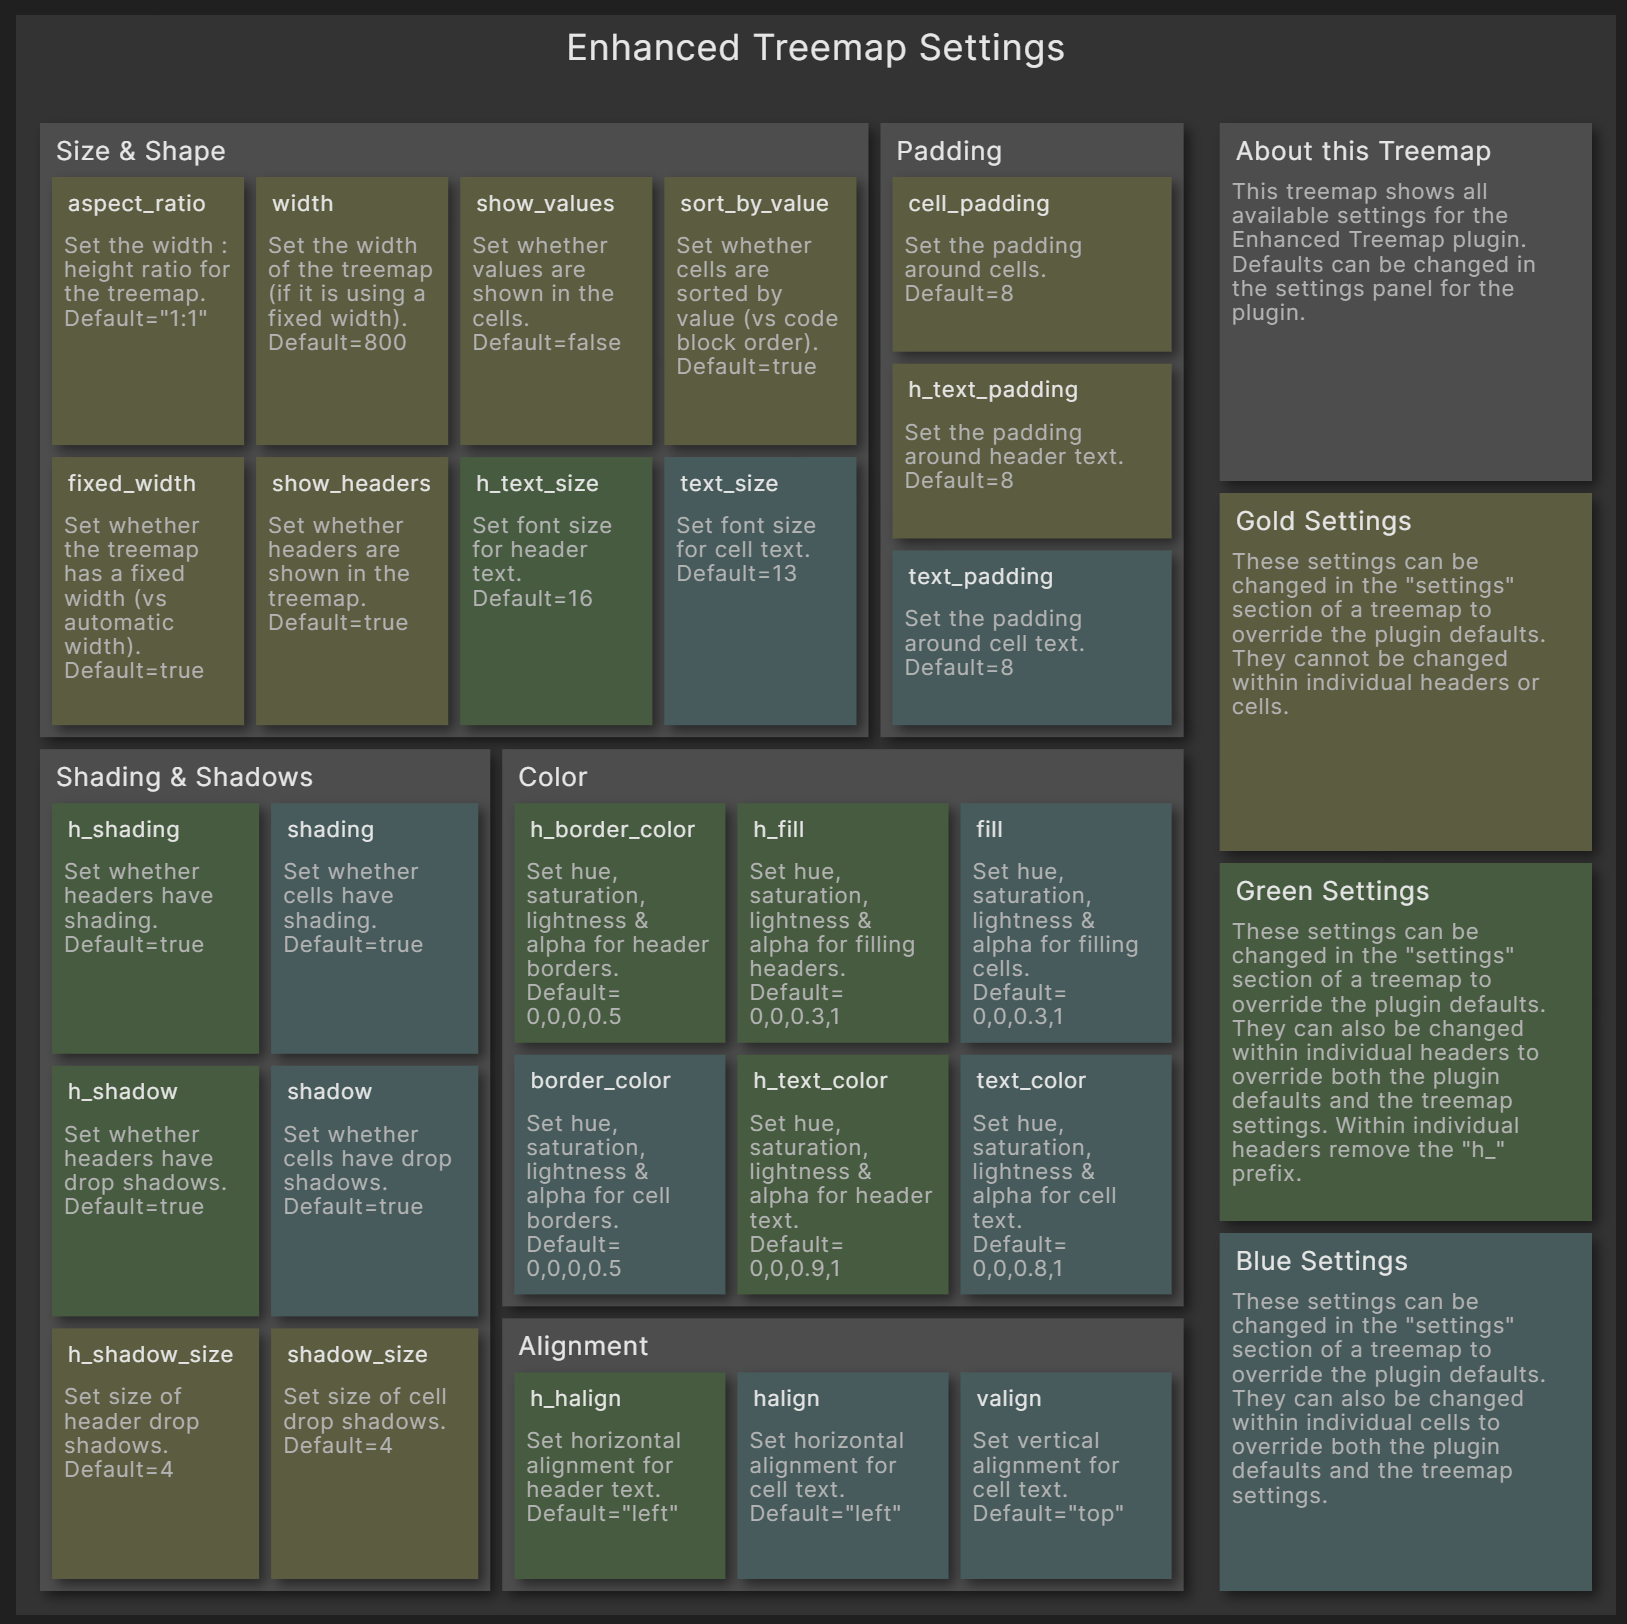
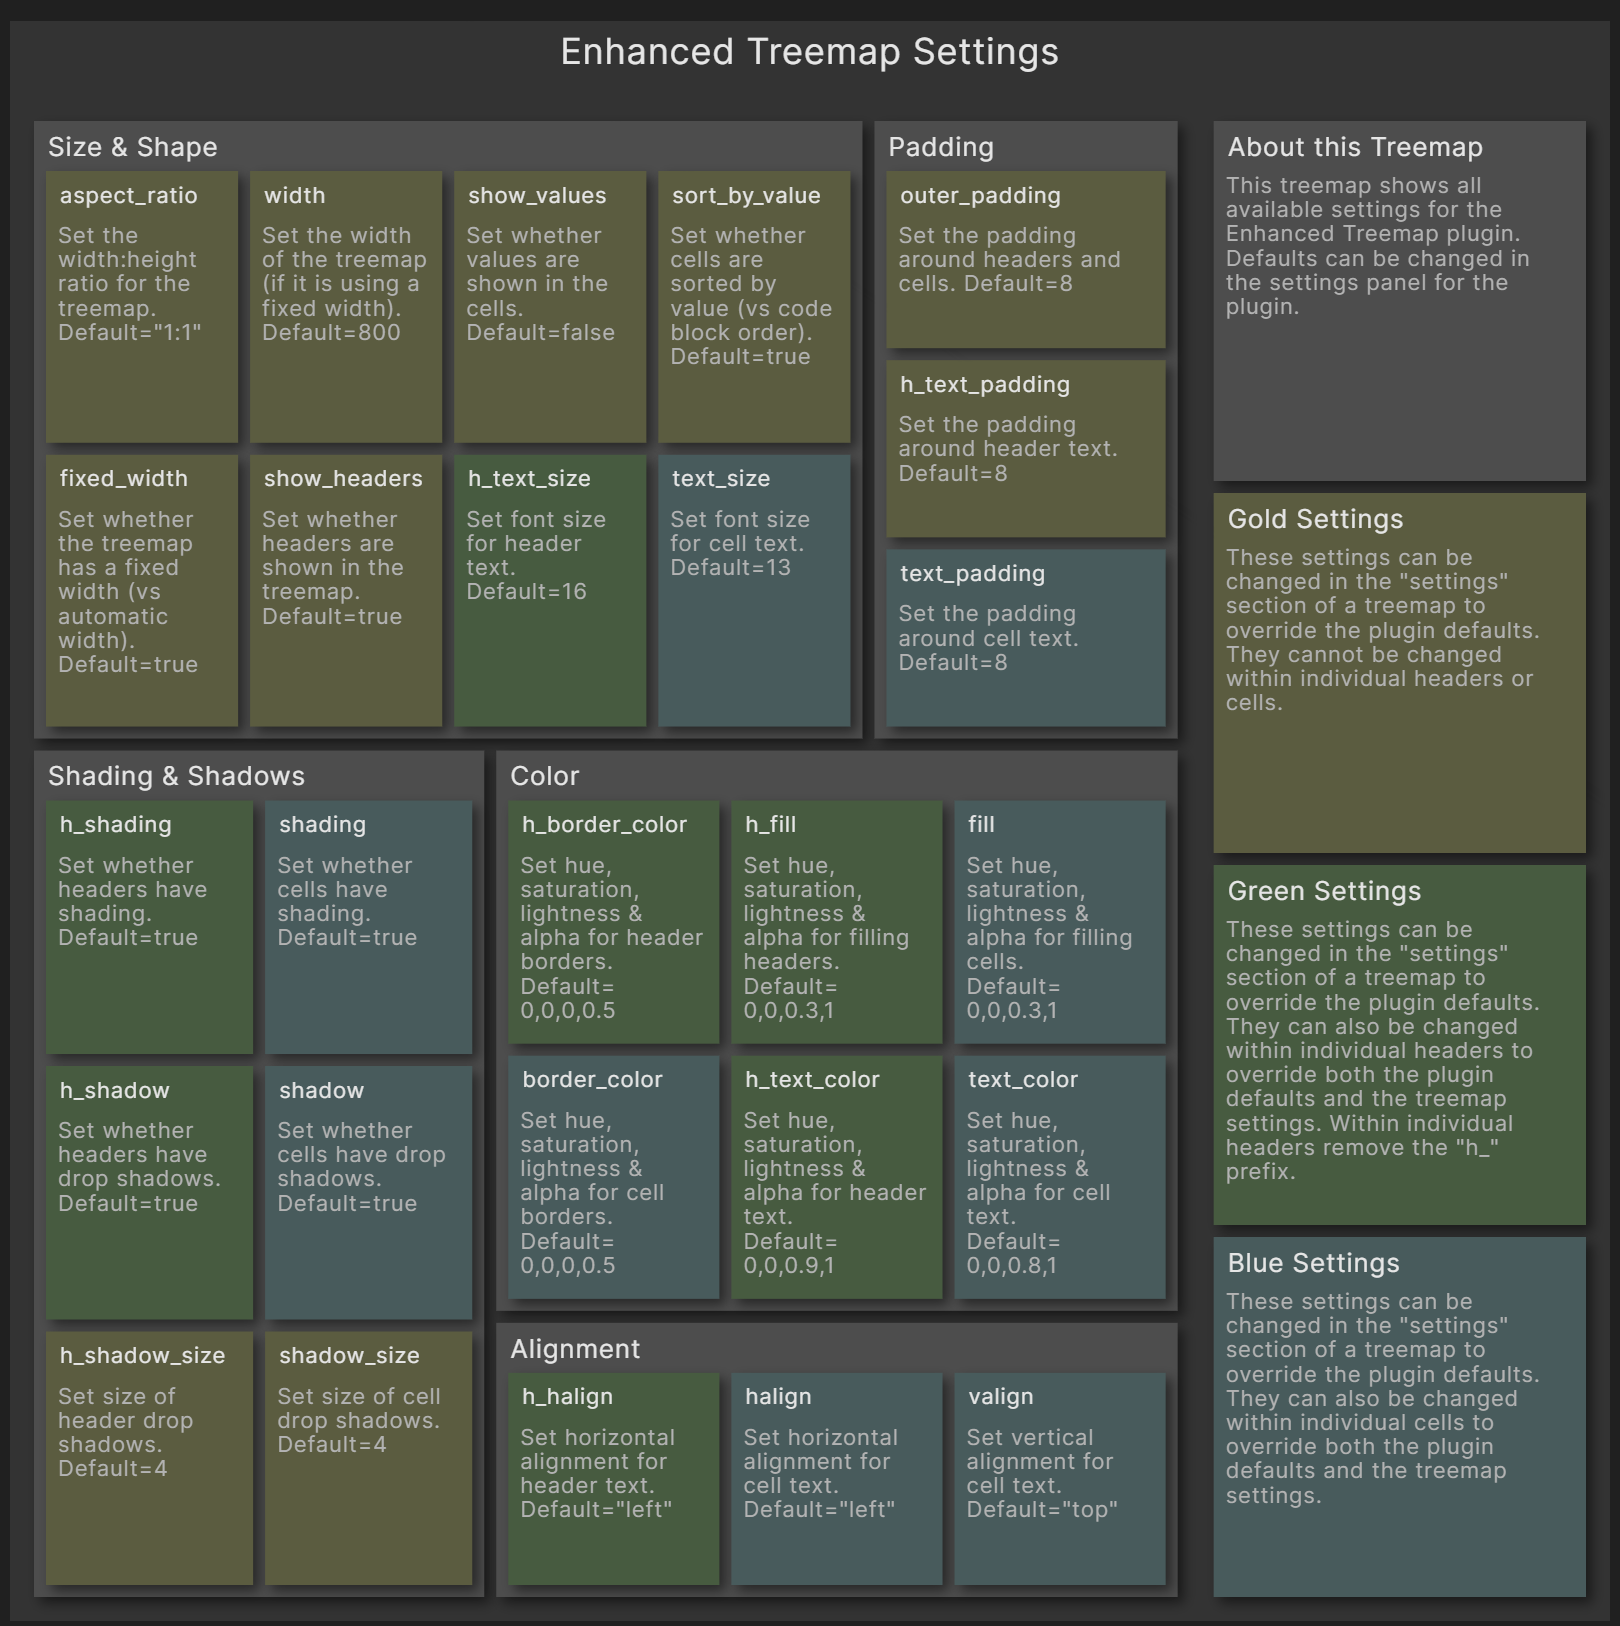
Changed cell_padding to outer_padding

diff --git a/src/enhancedtreemap.ts b/src/enhancedtreemap.ts
@@ -39,7 +39,7 @@ class EnhancedTreemapRenderChild extends MarkdownRenderChild {
     aspect_ratio:         float;
     aspect_w:             float;
     aspect_h:             float;
-    cell_padding:         float;
+    outer_padding:        float;
     fixed_width:          bool;
     h_shadow_size:        float;
     h_text_padding:       float;
@@ -83,7 +83,7 @@ class EnhancedTreemapRenderChild extends MarkdownRenderChild {
         this.aspect_ratio         = settings.aspect_ratio;
         this.aspect_w             = settings.aspect_w;
         this.aspect_h             = settings.aspect_h;
-        this.cell_padding         = settings.cell_padding;
+        this.outer_padding        = settings.outer_padding;
         this.fixed_width          = settings.fixed_width;
         this.h_shadow_size        = settings.h_shadow_size;
         this.h_text_padding       = settings.h_text_padding;
@@ -169,8 +169,8 @@ class EnhancedTreemapRenderChild extends MarkdownRenderChild {
                     this.aspect_w = ratio[0];
                     this.aspect_h = ratio[1];
                 }
-                if (setting.cell_padding != null) 
-                    this.cell_padding = this.verifyOption(setting.cell_padding, "cell_padding", "float", 0, null, null);
+                if (setting.outer_padding != null) 
+                    this.outer_padding = this.verifyOption(setting.outer_padding, "outer_padding", "float", 0, null, null);
                 if (setting.fixed_width != null) 
                     this.fixed_width = setting.fixed_width;
                 if (setting.h_shadow_size != null) 
@@ -381,19 +381,19 @@ class EnhancedTreemapRenderChild extends MarkdownRenderChild {
 
         var svg = d3.select(this.svg).append("g");
 
-        var cell_padding = this.cell_padding * scale;
-        var text_padding = this.text_padding * scale;
+        var outer_padding  = this.outer_padding * scale;
+        var text_padding   = this.text_padding * scale;
         var h_text_padding = this.h_text_padding * scale;
-        var text_size = this.text_size * scale;
-        var h_text_size = this.h_text_size * scale;
+        var text_size      = this.text_size * scale;
+        var h_text_size    = this.h_text_size * scale;
 
         // add positions to the nodes using the treemap layout
         var treemapLayout = d3.treemap()
             .tile(d3.treemapSquarify.ratio(1))
             .size([width, height])
-            .paddingOuter(cell_padding)
-            .paddingTop(this.show_headers ? h_text_size + 2 * h_text_padding : cell_padding)
-            .paddingInner(cell_padding)
+            .paddingOuter(outer_padding)
+            .paddingTop(this.show_headers ? h_text_size + 2 * h_text_padding : outer_padding)
+            .paddingInner(outer_padding)
             (nodes);
 
         // decendants instead of leaves shows all nodes, not just the leaves

diff --git a/src/settings.ts b/src/settings.ts
@@ -6,7 +6,7 @@ export interface EnhancedTreemapSettings {
 
     // Treemap Settings
     aspect_ratio:   float;
-    cell_padding:   float;
+    outer_padding:  float;
     fixed_width:    bool;
     h_shadow_size:  float;
     h_text_padding: float;
@@ -45,7 +45,7 @@ export const DEFAULT_SETTINGS: EnhancedTreemapSettings = {
 
     // Treemap Settings
     aspect_ratio:   1,
-    cell_padding:   8,
+    outer_padding:  8,
     fixed_width:    true,
     h_shadow_size:  4,
     h_text_padding: 8,
@@ -372,10 +372,10 @@ export class SettingTab extends PluginSettingTab {
             .setName('Cell Padding')
             .setDesc('Default Padding Size Around Cells')
             .addText(text => text
-                .setValue(this.plugin.settings.cell_padding.toString())
+                .setValue(this.plugin.settings.outer_padding.toString())
                 .onChange(async (value) => {
                     if (value > 0) {
-                        this.plugin.settings.cell_padding = value;
+                        this.plugin.settings.outer_padding = value;
                         await this.plugin.saveSettings();
                     }
                 }));

diff --git a/examples/Settings.md b/examples/Settings.md
@@ -2,83 +2,109 @@
 
 ```json
 {
-    "type": "enhancedtreemap",
-    "name": "Enhanced Treemap Settings", "fill": { "s": 0, "l": 0.2 }, "text_size": 16, "halign": "center",
-    "settings": [
-        { "aspect_ratio": "1:1" },
-        { "fixed_width": true },
-        { "width": 800 },
-        { "sort_by_value": false },
-        { "cell_padding": 6 },
-        { "text_padding": 6 },
-        { "h_text_padding": 8 },
-        { "text_size": 11 },
-        { "h_text_size": 11 },
-        { "text_color": { "l": 0.7 } },
-        { "shading": false },
-        { "h_shading": false },
-        { "shadow": false },
-        { "h_shadow": true },
-        { "h_shadow_size": 3 },
-        { "border_color": { "a": 0 } },
-        { "h_border_color": { "a": 0 } },
-        { "h_fill": { "s": 0.2 } },
-        { "fill": { "a": 0 } }
-    ],
-    "children": [
-        { "fill": { "a": 0 }, "border_color": { "a": 0 },
-            "children": [
-                { "name": "Size & Shape", "text_size": 13, "fill": { "s": 0 }, "children": [ 
-                    { "name": "aspect_ratio",   "fill": { "h": 60 }, "children": [ { "name": "\"1:1\"" } ] },
-                    { "name": "fixed_width",    "fill": { "h": 60 }, "children": [ { "name": "true" } ] },
-                    { "name": "width",          "fill": { "h": 60 }, "children": [ { "name": "800" } ] },
-                    { "name": "show_headers",   "fill": { "h": 60 }, "children": [ { "name": "true" } ] },
-                    { "name": "show_values",    "fill": { "h": 60 }, "children": [ { "name": "false" } ] },
-                    { "name": "sort_by_value",  "fill": { "h": 60 }, "children": [ { "name": "true" } ] },
-                    { "name": "h_text_size",    "fill": { "h": 120 }, "children": [ { "name": "16" } ] },
-                    { "name": "text_size",      "fill": { "h": 180 }, "children": [ { "name": "13" } ] }
-                ] },
-                { "name": "Padding", "text_size": 13, "fill": { "s": 0 }, "children": [ 
-                    { "name": "cell_padding",   "fill": { "h": 60 }, "children": [ { "name": "8" } ] },
-                    { "name": "h_text_padding", "fill": { "h": 60 }, "children": [ { "name": "8" } ] },
-                    { "name": "text_padding",   "fill": { "h": 180 }, "children": [ { "name": "8" } ] }
-                ] },
-                { "name": "Shading & Shadows", "text_size": 13, "fill": { "s": 0 }, "children": [ 
-                    { "name": "h_shadow_size",  "fill": { "h": 60 }, "children": [ { "name": "4" } ] },
-                    { "name": "shadow_size",    "fill": { "h": 60 }, "children": [ { "name": "4" } ] },
-                    { "name": "h_shading",      "fill": { "h": 120 }, "children": [ { "name": "true" } ] },
-                    { "name": "shading",        "fill": { "h": 180 }, "children": [ { "name": "true" } ] },
-                    { "name": "h_shadow",       "fill": { "h": 120 }, "children": [ { "name": "true" } ] },
-                    { "name": "shadow",         "fill": { "h": 180 }, "children": [ { "name": "true" } ] }
-                ] },
-                { "name": "Color", "text_size": 13, "fill": { "s": 0 }, "children": [ 
-                    { "name": "h_border_color", "fill": { "h": 120 }, "children": [ { "name": "hue:0 saturation:0 lightness:0 alpha:0.5" } ] },
-                    { "name": "border_color",   "fill": { "h": 180 }, "children": [ { "name": "hue:0 saturation:0 lightness:0 alpha:0.5" } ] },
-                    { "name": "h_fill",         "fill": { "h": 120 }, "children": [ { "name": "hue:0 saturation:0 lightness:0.3 alpha:1" } ] },
-                    { "name": "fill",           "fill": { "h": 180 }, "children": [ { "name": "hue:0 saturation:0 lightness:0.3 alpha:1" } ] },
-                    { "name": "h_text_color",   "fill": { "h": 120 }, "children": [ { "name": "hue:0 saturation:0 lightness:0.9 alpha:1" } ] },
-                    { "name": "text_color",     "fill": { "h": 180 }, "children": [ { "name": "hue:0 saturation:0 lightness:0.8 alpha:1" } ] }
-                ] },
-                { "name": "Alignment", "text_size": 13, "fill": { "s": 0 }, "children": [ 
-                    { "name": "h_halign",       "fill": { "h": 120 }, "children": [ { "name": "\"left\"" } ] },
-                    { "name": "halign",         "fill": { "h": 180 }, "children": [ { "name": "\"left\"" } ] },
-                    { "name": "valign",         "fill": { "h": 180 }, "children": [ { "name": "\"top\"" } ] }
-                ] }
-            ]
-        },
-        { "fill": { "a": 0 }, "border_color": { "a": 0 },
-            "children": [
-                { "name": "Defaults",      "text_size": 13, "fill": { "s": 0, "a": 1 }, "children": [ { "value": 2.25,
-                    "name": "This treemap shows the defaults for all available settings for the Enhanced Treemap plugin. These defaults can be changed in the settings panel for the plugin." } ] },
-                { "name": "Gold Shading",  "text_size": 13, "fill": { "h": 60, "s": 0.2, "a": 1 }, "children": [ { "value": 2.25,
-                    "name": "These settings can be changed in the \"settings\" section of a treemap to override the plugin defaults. They cannot be changed within individual headers or cells." } ] },
-                { "name": "Green Shading", "text_size": 13, "fill": { "h": 120 }, "children": [ { "value": 2.25,
-                    "name": "These settings can be changed in the \"settings\" section of a treemap to override the plugin defaults. They can also be changed within individual headers to override both the plugin defaults and the treemap settings. Within individual headers remove the \"h_\" prefix." } ] },
-                { "name": "Blue Shading",  "text_size": 13, "fill": { "h": 180 }, "children": [ { "value": 2.25,
-                    "name": "These settings can be changed in the \"settings\" section of a treemap to override the plugin defaults. They can also be changed within individual cells to override both the plugin defaults and the treemap settings." } ] }
-            ]
-        }
-    ]
+"type": "enhancedtreemap",
+"name": "Enhanced Treemap Settings", "fill": { "s": 0, "l": 0.2 }, "text_size": 18, "halign": "center",
+"settings": [
+	{ "aspect_ratio": "1:1" },
+	{ "fixed_width": true },
+	{ "width": 800 },
+	{ "sort_by_value": false },
+	{ "outer_padding": 6 },
+	{ "text_padding": 0 },
+	{ "h_text_padding": 7 },
+	{ "text_size": 11 },
+	{ "h_text_size": 11 },
+	{ "text_color": { "l": 0.7 } },
+	{ "shading": false },
+	{ "h_shading": false },
+	{ "shadow": false },
+	{ "h_shadow": true },
+	{ "h_shadow_size": 3 },
+	{ "border_color": { "a": 0 } },
+	{ "h_border_color": { "a": 0 } },
+	{ "h_fill": { "s": 0.2 } },
+	{ "fill": { "a": 0 } }
+],
+"children": [
+	{ "fill": { "a": 0 }, "border_color": { "a": 0 },
+		"children": [
+			{ "name": "Size & Shape", "text_size": 13, "fill": { "s": 0 }, "children": [ 
+				{ "name": "aspect_ratio",   "fill": { "h": 60 }, "children": [ 
+					{ "name": "Set the width:height ratio for the treemap. Default=\"1:1\"" } ] },
+				{ "name": "fixed_width",    "fill": { "h": 60 }, "children": [ 
+					{ "name": "Set whether the treemap has a fixed width (vs automatic width). Default=true" } ] },
+				{ "name": "width",          "fill": { "h": 60 }, "children": [ 
+					{ "name": "Set the width of the treemap (if it is using a fixed width). Default=800" } ] },
+				{ "name": "show_headers",   "fill": { "h": 60 }, "children": [ 
+					{ "name": "Set whether headers are shown in the treemap. Default=true" } ] },
+				{ "name": "show_values",    "fill": { "h": 60 }, "children": [ 
+					{ "name": "Set whether values are shown in the cells. Default=false" } ] },
+				{ "name": "sort_by_value",  "fill": { "h": 60 }, "children": [ 
+					{ "name": "Set whether cells are sorted by value (vs code block order). Default=true" } ] },
+				{ "name": "h_text_size",    "fill": { "h": 120 }, "children": [ 
+					{ "name": "Set font size for header text. Default=16" } ] },
+				{ "name": "text_size",      "fill": { "h": 180 }, "children": [ 
+					{ "name": "Set font size for cell text. Default=13" } ] }
+			] },
+			{ "name": "Padding", "text_size": 13, "fill": { "s": 0 }, "children": [ 
+				{ "name": "outer_padding",  "fill": { "h": 60 }, "children": [ 
+					{ "name": "Set the padding around headers and cells. Default=8" } ] },
+				{ "name": "h_text_padding", "fill": { "h": 60 }, "children": [ 
+					{ "name": "Set the padding around header text. Default=8" } ] },
+				{ "name": "text_padding",   "fill": { "h": 180 }, "children": [ 
+					{ "name": "Set the padding around cell text. Default=8" } ] }
+			] },
+			{ "name": "Shading & Shadows", "text_size": 13, "fill": { "s": 0 }, "children": [ 
+				{ "name": "h_shading",      "fill": { "h": 120 }, "children": [ 
+					{ "name": "Set whether headers have shading. Default=true" } ] },
+				{ "name": "shading",        "fill": { "h": 180 }, "children": [ 
+					{ "name": "Set whether cells have shading. Default=true" } ] },
+				{ "name": "h_shadow",       "fill": { "h": 120 }, "children": [ 
+					{ "name": "Set whether headers have drop shadows. Default=true" } ] },
+				{ "name": "shadow",         "fill": { "h": 180 }, "children": [ 
+					{ "name": "Set whether cells have drop shadows. Default=true" } ] },
+				{ "name": "h_shadow_size",  "fill": { "h": 60 }, "children": [ 
+					{ "name": "Set size of header drop shadows. Default=4" } ] },
+				{ "name": "shadow_size",    "fill": { "h": 60 }, "children": [ 
+					{ "name": "Set size of cell drop shadows. Default=4" } ] }
+			] },
+			{ "name": "Color", "text_size": 13, "fill": { "s": 0 }, "children": [ 
+				{ "name": "h_border_color", "fill": { "h": 120 }, "children": [ 
+					{ "name": "Set hue, saturation, lightness & alpha for header borders. Default=0,0,0,0.5" } ] },
+				{ "name": "border_color",   "fill": { "h": 180 }, "children": [ 
+					{ "name": "Set hue, saturation, lightness & alpha for cell borders. Default=0,0,0,0.5" } ] },
+				{ "name": "h_fill",         "fill": { "h": 120 }, "children": [ 
+					{ "name": "Set hue, saturation, lightness & alpha for filling headers. Default=0,0,0.3,1" } ] },
+				{ "name": "fill",           "fill": { "h": 180 }, "children": [ 
+					{ "name": "Set hue, saturation, lightness & alpha for filling cells. Default=0,0,0.3,1" } ] },
+				{ "name": "h_text_color",   "fill": { "h": 120 }, "children": [ 
+					{ "name": "Set hue, saturation, lightness & alpha for header text. Default=0,0,0.9,1" } ] },
+				{ "name": "text_color",     "fill": { "h": 180 }, "children": [ 
+					{ "name": "Set hue, saturation, lightness & alpha for cell text. Default=0,0,0.8,1" } ] }
+			] },
+			{ "name": "Alignment", "text_size": 13, "fill": { "s": 0 }, "children": [ 
+				{ "name": "h_halign",       "fill": { "h": 120 }, "children": [ 
+					{ "name": "Set horizontal alignment for header text. Default=\"left\"" } ] },
+				{ "name": "halign",         "fill": { "h": 180 }, "children": [ 
+					{ "name": "Set horizontal alignment for cell text. Default=\"left\"" } ] },
+				{ "name": "valign",         "fill": { "h": 180 }, "children": [ 
+					{ "name": "Set vertical alignment for cell text. Default=\"top\"" } ] }
+			] }
+		]
+	},
+	{ "fill": { "a": 0 }, "border_color": { "a": 0 },
+		"children": [
+			{ "name": "About this Treemap",      "text_size": 13, "fill": { "s": 0, "a": 1 }, "children": [ { "value": 2.25,
+				"name": "This treemap shows all available settings for the Enhanced Treemap plugin. Defaults can be changed in the settings panel for the plugin." } ] },
+			{ "name": "Gold Settings",  "text_size": 13, "fill": { "h": 60, "s": 0.2, "a": 1 }, "children": [ { "value": 2.25,
+				"name": "These settings can be changed in the \"settings\" section of a treemap to override the plugin defaults. They cannot be changed within individual headers or cells." } ] },
+			{ "name": "Green Settings", "text_size": 13, "fill": { "h": 120 }, "children": [ { "value": 2.25,
+				"name": "These settings can be changed in the \"settings\" section of a treemap to override the plugin defaults. They can also be changed within individual headers to override both the plugin defaults and the treemap settings. Within individual headers remove the \"h_\" prefix." } ] },
+			{ "name": "Blue Settings",  "text_size": 13, "fill": { "h": 180 }, "children": [ { "value": 2.25,
+				"name": "These settings can be changed in the \"settings\" section of a treemap to override the plugin defaults. They can also be changed within individual cells to override both the plugin defaults and the treemap settings." } ] }
+		]
+	}
+]
 }
 ```
 
